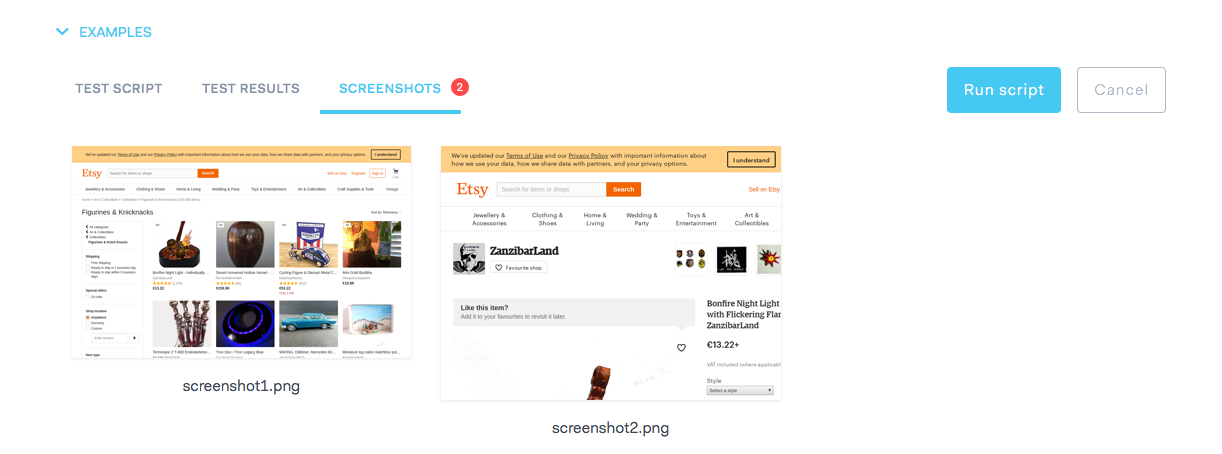
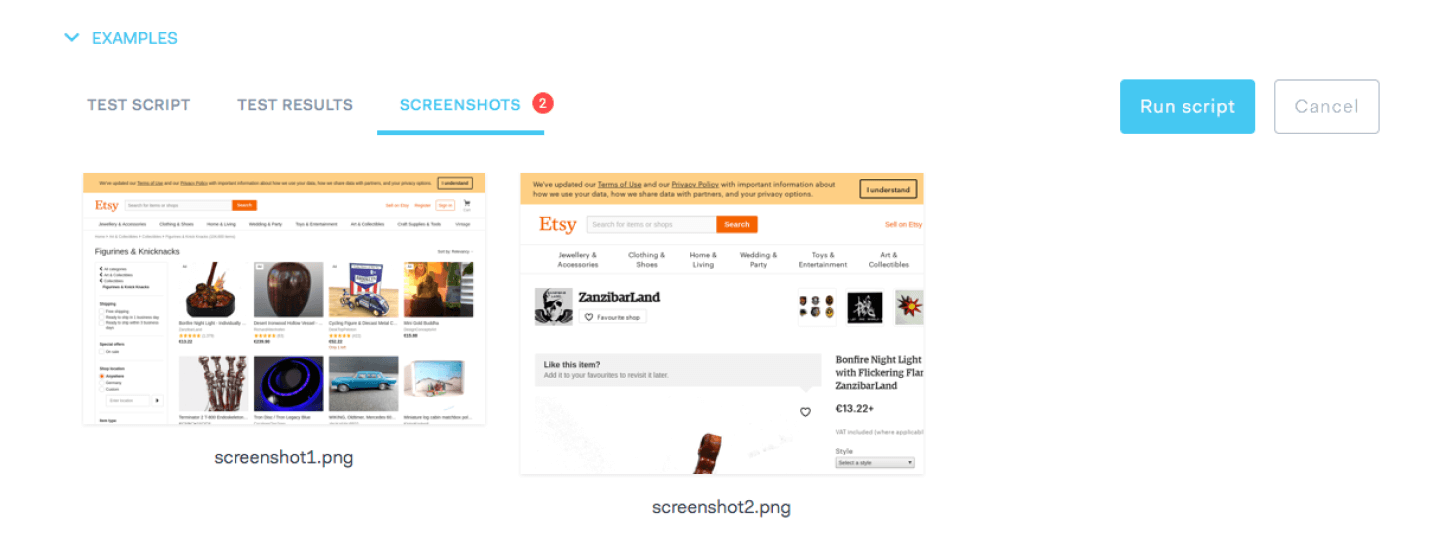
update all images

diff --git a/site/layouts/partials/testimonial-three-col-row.html b/site/layouts/partials/testimonial-three-col-row.html
@@ -3,21 +3,14 @@
     <div class="row">
       <div class="col-sm-12 col-md-6 col-lg-4">
         <div class="card testimonial-card mb-5 mb-md-0">
-          <div class="card-block first"><a href="https://1password.com" target="_blank"><img class="testimonial-logo"
-                                                                                        src="/images/testimonials/1password_logo.png"/></a>
-            <p class="testimonial-text">"The flexible features and developer-friendly API made the integration super easy. Checkly is a fabulous developer tool! Bonus: their support is super friendly and knowledgeable!"</p>
-            <div class="testimonial-portrait"><img src="/images/testimonials/1password_portrait.jpeg" class="rounded-circle" /></div>
-            <div class="testimonial-name-badge">
-              <div class="text-muted font-weight-bold">Connor Hicks</div>
-              <div class="text-muted">Lead Developer - Platform Integrations</div>
-              <a class="text-muted" href="https://1password.com/" target="_blank">1password.com</a></div>
-          </div>
-        </div>
-      </div>
-      <div class="col-sm-12 col-md-6 col-lg-4">
-        <div class="card testimonial-card mb-5 mb-md-0">
-          <div class="card-block second"><a href="https://supplypike.com" target="_blank"><img class="testimonial-logo"
-                                                                                        src="/images/testimonials/supplypike_logo.png"/></a>
+          <div class="card-block first">
+            <a href="https://1password.com" target="_blank">
+              <picture>
+                <source type="image/webp" srcset="/landing/supplypike_logo@2x.webp">
+                <source type="image/png" srcset="/landing/supplypike_logo@2x.png">
+                <img class="testimonial-logo" src="/landing/supplypike_logo@2x.png" alt="supplypike logo" width="150" height="25" />
+              </picture>
+            </a>
             <p class="testimonial-text">"Checkly helps our teams to ship code more confidently and guide data-driven
               decision making.
               Integrations with tools like Prometheus and PagerDuty make the adoption seamless."</p>
@@ -25,24 +18,56 @@
             <div class="testimonial-name-badge">
               <div class="text-muted font-weight-bold">Kanat Bekterimov</div>
               <div class="text-muted">Software Engineer Manager</div>
-              <a class="text-muted" href="https://supplypike.com/" target="_blank">supplypike.com</a></div>
+              <a class="text-muted" href="https://supplypike.com/" target="_blank" rel="noopener">supplypike.com</a>
+            </div>
+          </div>
+        </div>
+      </div>
+      <div class="col-sm-12 col-md-6 col-lg-4">
+        <div class="card testimonial-card mb-5 mb-md-0">
+          <div class="card-block second">
+            <a href="http://www.dfuse.io/" target="_blank">
+              <picture>
+                <source type="image/webp" srcset="/landing/dfuse_logo@2x.webp">
+                <source type="image/png" srcset="/landing/dfuse_logo@2x.png">
+                <img class="testimonial-logo" src="/landing/dfuse_logo@2x.png" alt="dfuse logo" width="110" height="26" />
+              </picture>
+            </a>
+            <p class="testimonial-text">"Checkly is super easy to setup and the best option for us to test our Websocket
+              API.
+              We depend on it 24/7 and it’s our go-to place when PagerDuty wakes us up at 3am"</p>
+            <div class="testimonial-portrait">
+              <img alt="customer portrait" src="/images/testimonials/dfuse_portrait.png"/>
+            </div>
+            <div class="testimonial-name-badge">
+              <div class="text-muted font-weight-bold">François Proulx</div>
+              <div class="text-muted">Senior DevSecOps</div>
+              <a class="text-muted" href="http://www.dfuse.io/" target="_blank" rel="noopener">dfuse.io</a>
+            </div>
           </div>
         </div>
       </div>
       <div class="col-sm-12 col-md-12 col-lg-4">
         <div class="card testimonial-card mb-5 mb-md-0">
-          <div class="card-block third"><a href="http://www.dfuse.io/" target="_blank"><img alt="dfuse logo"
-                                                                                      class="testimonial-logo"
-                                                                                      src="/images/testimonials/dfuse_logo.png"/></a>
+          <div class="card-block third">
+            <a href="http://www.dfuse.io/" target="_blank">
+              <picture>
+                <source type="image/webp" srcset="/landing/lyfegen_logo@2x.webp">
+                <source type="image/png" srcset="/landing/lyfegen_logo@2x.png">
+                <img class="testimonial-logo" src="/landing/lyfegen_logo@2x.png" alt="dfuse logo" width="110" height="28" />
+              </picture>
+            </a>
             <p class="testimonial-text">"Checkly is super easy to setup and the best option for us to test our Websocket
               API.
               We depend on it 24/7 and it’s our go-to place when PagerDuty wakes us up at 3am"</p>
-            <div class="testimonial-portrait"><img alt="customer portrait"
-                                                   src="/images/testimonials/dfuse_portrait.png"/></div>
+            <div class="testimonial-portrait">
+              <img alt="customer portrait" src="/images/testimonials/lyfegen_portrait.png"/>
+            </div>
             <div class="testimonial-name-badge">
-              <div class="text-muted font-weight-bold">François Proulx</div>
-              <div class="text-muted">Senior DevSecOps</div>
-              <a class="text-muted" href="http://www.dfuse.io/" target="_blank">dfuse.io</a></div>
+              <div class="text-muted font-weight-bold">James Gannon</div>
+              <div class="text-muted">Chief Digital Officer</div>
+              <a class="text-muted" href="http://www.dfuse.io/" target="_blank" rel="noopener">lyfegen.com</a>
+            </div>
           </div>
         </div>
       </div>

diff --git a/site/layouts/partials/workflow-section.html b/site/layouts/partials/workflow-section.html
@@ -12,9 +12,9 @@
       <div class="col-md-6 col-lg-3 mb-4 mb-lg-0 workflow-item">
         <div class="d-flex align-items-center" style="height: 80px;">
           <picture>
-            <source type="image/webp" srcset="/landing/puppeteer-logo.webp">
-            <source type="image/png" srcset="/landing/puppeteer-logo.png">
-            <img  alt="puppeteer playwright logo" src="/landing/puppeteer-logo.png"/>
+            <source type="image/webp" srcset="/landing/puppeteer-logo@2x.webp">
+            <source type="image/png" srcset="/landing/puppeteer-logo@2x.png">
+            <img src="/landing/puppeteer-logo@2x.png" alt="puppeteer playwright logo" width="48" height="70" />
           </picture>
           <span alt="playwright logo" class="pl-2" style="font-size: 55px;">🎭</span>
         </div>
@@ -25,9 +25,9 @@
       <div class="col-md-6 col-lg-3 mb-4 mb-lg-0 workflow-item">
         <div class="d-flex align-items-center" style="height: 80px;">
           <picture>
-            <source type="image/webp" srcset="/landing/javascript-logo.webp">
-            <source type="image/png" srcset="/landing/javascript-logo.png">
-            <img alt="node.js logo" src="/landing/javascript-logo.png"/>
+            <source type="image/webp" srcset="/landing/javascript-logo@2x.webp">
+            <source type="image/png" srcset="/landing/javascript-logo@2x.png">
+            <img src="/landing/javascript-logo@2x.png" alt="javascript logo" width="70" height="70" />
           </picture>
         </div>
         <h5>Javascript</h5>
@@ -37,9 +37,9 @@
       <div class="col-md-6 col-lg-3 mb-4 mb-lg-0 workflow-item">
         <div class="d-flex align-items-center" style="height: 80px;">
           <picture>
-            <source type="image/webp" srcset="/landing/github-logo.webp">
-            <source type="image/png" srcset="/landing/github-logo.png">
-            <img alt="github logo" src="/landing/github-logo.png"/>
+            <source type="image/webp" srcset="/landing/github-logo@2x.webp">
+            <source type="image/png" srcset="/landing/github-logo@2x.png">
+            <img src="/landing/github-logo@2x.png" alt="github logo" width="70" height="70" />
           </picture>
         </div>
         <h5>GitHub</h5>
@@ -49,9 +49,9 @@
       <div class="col-md-6 col-lg-3 mb-4 mb-lg-0 workflow-item">
         <div class="d-flex align-items-center" style="height: 80px;">
           <picture>
-            <source type="image/webp" srcset="/landing/prometheus-logo.webp">
-            <source type="image/png" srcset="/landing/prometheus-logo.png">
-            <img alt="prometheus logo" src="/landing/prometheus-logo.png"/>
+            <source type="image/webp" srcset="/landing/prometheus-logo@2x.webp">
+            <source type="image/png" srcset="/landing/prometheus-logo@2x.png">
+            <img src="/landing/prometheus-logo@2x.png" alt="prometheus logo" width="70" height="70" />
           </picture>
         </div>
         <h5>Prometheus</h5>

diff --git a/site/layouts/partials/site-monitoring-section.html b/site/layouts/partials/site-monitoring-section.html
@@ -16,14 +16,14 @@
       <div class="col-sm-12 col-lg-7">
         <div class="image-side right">
           <picture>
-            <source type="image/webp" srcset="/landing/synthetic-monitoring@2x.webp">
-            <source type="image/png" srcset="/landing/synthetic-monitoring@2x.png">
-            <img  class="big-landing-image big-drop-shadow code fade-in lazy" src="/landing/synthetic-monitoring@2x.png" alt="synthetic monitoring"  />
+            <source type="image/webp" srcset="/landing/checkly-browser-check@2x.webp">
+            <source type="image/png" srcset="/landing/checkly-browser-check@2x.png">
+            <img  class="big-landing-image big-drop-shadow code fade-in lazy" src="/landing/checkly-browser-check@2x.png" alt="checkly browser check" width="594" height="636"  />
           </picture>
           <picture>
-            <source type="image/webp" srcset="/landing/synthetic-monitoring-2@2x.webp">
-            <source type="image/png" srcset="/landing/synthetic-monitoring-2@2x.png">
-            <img  class="big-landing-image big-drop-shadow screenshots fade-in lazy" src="/landing/synthetic-monitoring-2@2x.png" alt="synthetic monitoring"  />
+            <source type="image/webp" srcset="/landing/browser-screenshots@2x.webp">
+            <source type="image/png" srcset="/landing/browser-screenshots@2x.png">
+            <img  class="big-landing-image big-drop-shadow screenshots fade-in lazy" src="/landing/browser-screenshots@2x.png" alt="checkly browser screenshots" width="722" height="269"  />
           </picture>
         </div>
       </div>

diff --git a/site/layouts/partials/api-monitoring-section.html b/site/layouts/partials/api-monitoring-section.html
@@ -14,14 +14,14 @@
       <div class="col-sm-12 col-lg-7">
         <div class="image-side right">
           <picture>
-            <source type="image/webp" srcset="/landing/api-monitoring@2x.webp">
-            <source type="image/png" srcset="/landing/api-monitoring@2x.png">
-            <img  class="big-landing-image big-drop-shadow assertions fade-in lazy" src="/landing/api-monitoring@2x.png" alt="api monitoring" />
+            <source type="image/webp" srcset="/landing/assertions-edit@2x.webp">
+            <source type="image/png" srcset="/landing/assertions-edit@2x.png">
+            <img  class="big-landing-image big-drop-shadow assertions fade-in lazy" src="/landing/assertions-edit@2x.png" alt="checkly assertions edit" width="810" height="560" />
           </picture>
           <picture>
-            <source type="image/webp" srcset="/landing/api-results@2x.webp">
-            <source type="image/png" srcset="/landing/api-results@2x.png">
-            <img  class="big-landing-image big-drop-shadow results fade-in lazy" src="/landing/api-results@2x.png" alt="api monitoring"  />
+            <source type="image/webp" srcset="/landing/assertions@2x.webp">
+            <source type="image/png" srcset="/landing/assertions@2x.png">
+            <img  class="big-landing-image big-drop-shadow results fade-in lazy" src="/landing/assertions@2x.png" alt="checkly assertions" width="810" height="595"  />
           </picture>
         </div>
       </div>

diff --git a/site/layouts/partials/alerting-section.html b/site/layouts/partials/alerting-section.html
@@ -6,7 +6,7 @@
         <picture>
           <source type="image/webp" srcset="/landing/alerting-options@2x.webp">
           <source type="image/png" srcset="/landing/alerting-options@2x.png">
-          <img alt="alert notification channels" class="alerting-top-image" src="/landing/alerting-options@2x.png"/>
+          <img class="alerting-top-image" src="/landing/alerting-options@2x.png" alt="checkly alerting options" width="750" height="45" />
         </picture>
         <h3 class="display-4">Alerting when and how you want it</h3>
         <p class="lead">Keep your team up to date with a
@@ -19,9 +19,9 @@
     <div class="row">
       <div class="col-sm-12 text-center">
         <picture>
-          <source type="image/webp" srcset="/landing/alert-settings-v2@2x.webp">
-          <source type="image/png" srcset="/landing/alert-settings-v2@2x.png">
-          <img alt="alerting settings" class="alerting-image big-drop-shadow img-fluid" src="/landing/alert-settings-v2@2x.png" />
+          <source type="image/webp" srcset="/landing/alert-settings@2x.webp">
+          <source type="image/png" srcset="/landing/alert-settings@2x.png">
+          <img class="alerting-image big-drop-shadow img-fluid" src="/landing/alert-settings@2x.png" alt="checkly alerting settings" width="900" height="522" />
         </picture>
       </div>
     </div>

diff --git a/site/layouts/partials/trusted-by-section.html b/site/layouts/partials/trusted-by-section.html
@@ -1,7 +1,7 @@
 <section class="trusted-by-section"><div class="container"><div class="row"><div class="col-sm-12 col-lg-10 offset-lg-1"><h5 class="section-super-header mb-3">Trusted by engineering teams at</h5></div></div><div class="row"><div class="col-sm-12">
   <picture>
-  	<source type="image/webp" srcset="/landing/trusted-logos-home@2x.webp">
-    <source type="image/png" srcset="/landing/trusted-logos-home@2x.png">
-    <img  class="trusted-by-image" src="/landing/trusted-logos-home@2x.png" alt="trusted by companies for api and synthetic monitoring"  />
+  	<source type="image/webp" srcset="/landing/testimonial-logos@2x.webp">
+    <source type="image/png" srcset="/landing/testimonial-logos@2x.png">
+    <img  class="trusted-by-image" src="/landing/testimonial-logos@2x.png" alt="trusted by companies for api and synthetic monitoring" width="1100" height="53.5"  />
   </picture>
 </div></div></div></section>

diff --git a/site/layouts/shortcodes/feature-row.html b/site/layouts/shortcodes/feature-row.html
@@ -1,4 +1,4 @@
-{{ $header := .Get "header" }} {{ $image := .Get "img" }}
+{{ $header := .Get "header" }} {{ $image := .Get "img" }} {{ $width := .Get "imgWidth" }} {{ $height := .Get "imgHeight" }}
 <div class="row feature">
   <div class="col-sm-12 col-md-5 text-left d-flex">
     <div class="feature-row-item-wrapper my-auto">
@@ -7,10 +7,10 @@
     </div>
   </div>
   <div class="col-sm-12 col-md-7 text-right">
-    <img
-      src="{{$image}}"
-      alt="{{$header}}"
-      class="img-w720 big-drop-shadow rounded"
-    />
+    <picture>
+      <source type="image/webp" srcset="{{ substr $image 0 -4 | safeURL }}.webp">
+      <source type="image/png" srcset="{{$image}}">
+      <img  class="img-w720 big-drop-shadow rounded" src="{{$image}}" alt="{{$header}}" loading="lazy" width="{{$width}}" height="{{$height}}" />
+    </picture>
   </div>
 </div>

diff --git a/site/layouts/partials/hero-section.html b/site/layouts/partials/hero-section.html
@@ -15,9 +15,9 @@
     <div class="row">
       <div class="col-sm-12 text-center">
         <picture>
-          <source type="image/webp" srcset="/landing/hero-image@2x.webp">
-          <source type="image/png" srcset="/landing/hero-image@2x.png">
-          <img  class="hero-image big-drop-shadow img-fluid" src="/landing/hero-image@2x.png" alt="checkly monitoring dashboard"  />
+          <source type="image/webp" srcset="/landing/home-dashboard@2x.webp">
+          <source type="image/png" srcset="/landing/home-dashboard@2x.png">
+          <img  class="hero-image big-drop-shadow img-fluid" src="/landing/home-dashboard@2x.png" alt="checkly monitoring dashboard" width="1100" height="580" />
         </picture>
       </div>
     </div>

diff --git a/site/layouts/partials/e2e-pr-section.html b/site/layouts/partials/e2e-pr-section.html
@@ -39,9 +39,9 @@
       </div>
       <div class="col-sm-12 col-lg-8">
         <picture>
-          <source type="image/webp" srcset="/landing/github-pr@2x.webp">
-          <source type="image/png" srcset="/landing/github-pr@2x.png">
-          <img  alt="github merge pr screen" class="pr-image" src="/landing/github-pr@2x.png"/>
+          <source type="image/webp" srcset="/landing/e2e-screenshot@2x.webp">
+          <source type="image/png" srcset="/landing/e2e-screenshot@2x.png">
+          <img class="pr-image" src="/landing/e2e-screenshot@2x.png" alt="checkly e2e screenshot" width="687" height="324" />
         </picture>
       </div>
     </div>

diff --git a/site/layouts/shortcodes/alternative-picture.html b/site/layouts/shortcodes/alternative-picture.html
@@ -1,6 +1,6 @@
-{{ $alt := .Get "alt" }} {{ $image := .Get "img" }} {{ $class := .Get "class" }}
+{{ $alt := .Get "alt" }} {{ $image := .Get "img" }} {{ $class := .Get "class" }} {{ $width := .Get "width" }} {{ $height := .Get "height" }}
 <picture>
   <source type="image/webp" srcset="{{ substr $image 0 -4 | safeURL }}.webp">
   <source type="image/png" srcset="{{$image}}">
-  <img  class="{{$class}}" src="{{$image}}" alt="{{$alt}}" loading="lazy" />
+  <img  class="{{$class}}" src="{{$image}}" alt="{{$alt}}" loading="lazy" width="{{$width}}" height="{{$height}}" />
 </picture>

diff --git a/site/layouts/partials/results-section.html b/site/layouts/partials/results-section.html
@@ -16,7 +16,7 @@
         <picture>
           <source type="image/webp" srcset="/landing/check-results@2x.webp">
           <source type="image/png" srcset="/landing/check-results@2x.png">
-          <img alt="monitoring results" class="results-image img-fluid" src="/landing/check-results@2x.png"/>
+          <img class="results-image img-fluid" src="/landing/check-results@2x.png" alt="checkly check results" width="900" />
         </picture>
       </div>
     </div>

diff --git a/src/scss/_product.scss b/src/scss/_product.scss
@@ -32,7 +32,7 @@
     .hero-image {
       max-width: 905px;
       max-height: 470px;
-      margin-bottom: -100px;
+      margin-bottom: -50px;
     }
 
     h2 {
